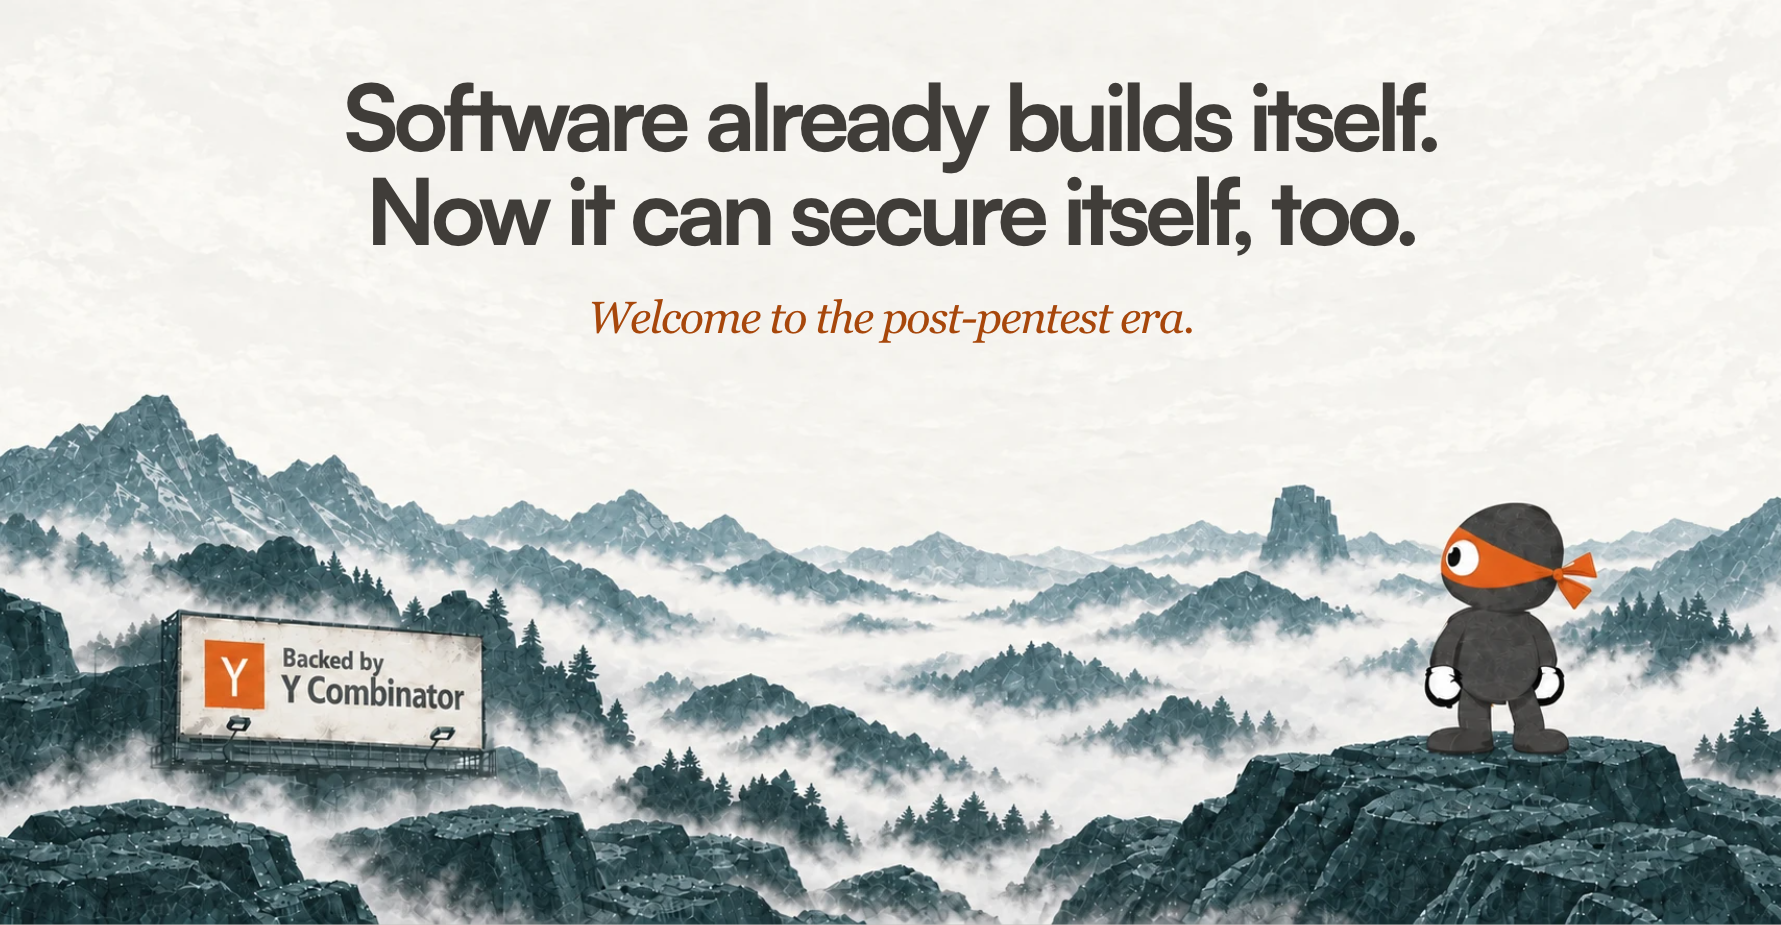
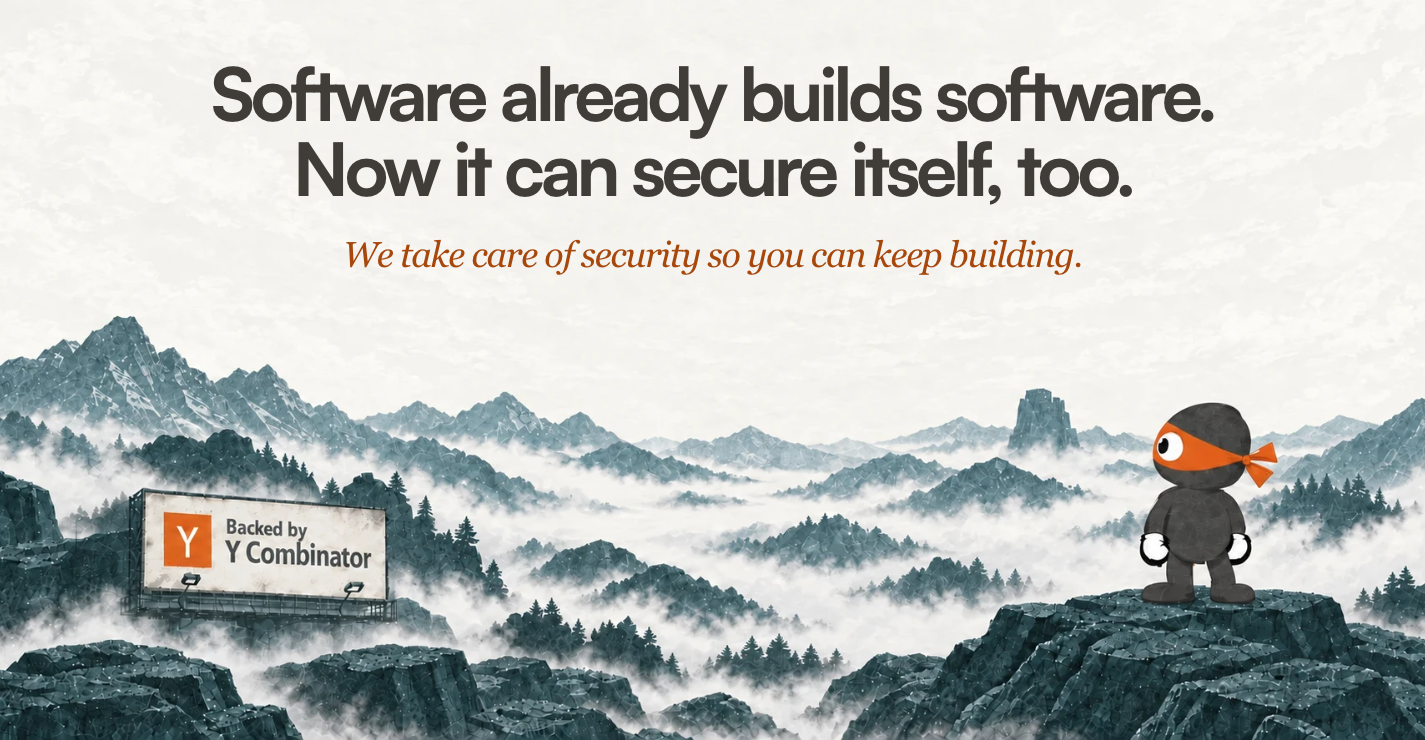
docs(readme): refresh website copy and artwork

diff --git a/README.md b/README.md
@@ -1,6 +1,6 @@
 <p align="center">
   <a href="https://0.security/">
-    <img src="assets/readme-cover.png" alt="Software already builds itself. Now it can secure itself, too. Zero looks over a mountain landscape." width="100%">
+    <img src="assets/readme-cover.png" alt="Software already builds software. Now it can secure itself, too. Zero looks over a mountain landscape." width="100%">
   </a>
 </p>
 
@@ -36,47 +36,113 @@
 ## How it works
 
 <p align="center">
-  <img src="assets/security-cycle-diagram.webp" alt="Illustrative workflow: Zero investigates, proposes fixes and reports the outcome, then repeats." width="100%">
+  <img src="assets/security-cycle-diagram.webp" alt="Illustrative five-step workflow: Zero studies the codebase, finds problems, proposes fixes, reports results and improves the next run." width="100%">
 </p>
 
 An illustrated workflow, not an unattended outcome guarantee:
 
-1. **Find.** Investigate code and authorized targets. Reproduce findings with the checks supported by each workflow.
-2. **Fix.** Propose scoped source fixes and test candidates against an explicit regression command.
-3. **Tell.** Review the findings, evidence and proposed changes.
-4. **Repeat.** Run again as your code changes. Retain revision-aware codebase notes for later research.
+1. **Study.** Read the repository and its conventions. Check retained notes against the current source.
+2. **Find.** Investigate code and authorized targets. Reproduce findings with the checks supported by each workflow.
+3. **Fix.** Propose scoped source fixes and test candidates against an explicit regression command.
+4. **Tell.** Review the findings, evidence and proposed changes.
+5. **Improve.** Retain revision-aware codebase notes for later research. Tool and harness improvement workflows remain a research preview.
 
 The local CLI runs on demand. Managed recurring work needs separate service
 access and configuration. Slack and GitLab delivery are planned.
 
+<p align="center">
+  <a href="https://0.security/research/">
+    <img src="assets/proof-action-scenes.webp" alt="Illustrations of Zero striking a phone, smashing a laptop at his gray desk, and bracing against physical server hardware." width="100%">
+  </a>
+</p>
+
 ## Get started
+
+For a supported macOS or Linux terminal, install the standalone release:
 
 ```bash
 curl -fsSL https://raw.githubusercontent.com/0sec-labs/0sec/main/install.sh | bash
 export PATH="$HOME/.0sec/bin:$PATH"
-0
+0 console --mode standard
 ```
 
-Add the `export` line to your shell profile. Run `0` to open the interactive
-console, or `0 --help` for commands. Only test systems you own or have permission to assess.
-
-Connect your own model or provider credentials. A 0cloud account isn't required
-for local use; model support varies by workflow. See [model connections](https://docs.0.security/api-keys/).
-
-The interactive console defaults to YOLO, without per-action approval prompts.
-Set explicit scope and exclusions before starting work. See
-[configuration](https://docs.0.security/configuration/) for execution and isolation options.
+Add the `export` line to your shell profile. In the console, use `/connect` to
+configure a supported model connection and `/model` to select a model. The
+example selects Standard mode explicitly; plain `0` defaults to YOLO.
+Approval behavior depends on the launcher and mode; see the
+[console guide](https://docs.0.security/console/). No mode grants testing
+authorization or provides OS isolation. Only assess systems you own or have
+permission to test.
 
 Alternatively, with Node.js 24 or newer:
 
 ```bash
 npm install -g 0sec-cli
-0sec --help
+0 --help
 ```
 
-The npm package is `0sec-cli`; its commands are `0sec` and `0`.
-The standalone binary includes the full terminal UI. Running that UI from the
-npm package or source requires Bun; Node supports the command-line workflows.
+The npm package remains `0sec-cli`; it installs `0` and the `0sec` alias.
+The full interactive interface requires Bun or the standalone release;
+Node supports the command-line workflows. See
+[installation](https://docs.0.security/getting-started/) for source builds,
+containers, experimental Windows support, and platform prerequisites.
+
+## Connect your models
+
+The local harness needs no 0cloud account when you use supported provider
+credentials. Configure the provider, model, and runtime deliberately rather
+than relying on whichever credentials happen to be present.
+[API Keys](https://docs.0.security/api-keys/) covers the available connections.
+
+You can assign different models to different agent roles. Child agents
+currently inherit their parent's provider, account, and endpoint: choose
+models supported by that route, such as a multi-model gateway catalog.
+This is not automatic cross-provider account switching or a claim of optimal
+routing. See [role-model configuration](https://docs.0.security/configuration/#multi-model-role-routing).
+
+Hosted inference also leaves tools in your environment. Managed scans and
+recurring reviews require separate service access, repository authorization,
+and compatible deployment. See [managed integration](https://docs.0.security/ci/github-action/#managed-lifecycle-compatibility)
+before automating enrollment or schedule changes.
+
+## Find, verify, and fix
+
+| Task | Entry points |
+| --- | --- |
+| Source and package analysis | `0 review`, `0 file-review`, `0 deep-review`, `0 audit` |
+| Authorized web/API assessment | `0 scan` with an explicit target and scope |
+| Evidence and repair | `0 findings`, `0 verify`, `0 fix`, `0 secure` |
+| AI and agent evaluation | `0 eval`, `0 agent-assure` |
+| Discovery and identity | `0 recon`, `0 identity`, `0 adgraph`, `0 entragraph` |
+| Source, kernel, and binary research | `0 hunt`, `0 research`, `0 kernel`, `0 binary` |
+
+For an authorized local checkout, start with source review:
+
+```bash
+0 review ./my-repo --runtime api --depth quick --cost-ceiling 5
+```
+
+For a repository investigation-and-repair workflow, first review the setup
+requirements and approve a meaningful regression command:
+
+```bash
+0 secure ./my-repo \
+  --test-command "npm test" \
+  --state-dir "$HOME/.0sec/secure/my-repo"
+```
+
+`secure` investigates, attempts reproduction and repair, runs regression
+tests, and independently verifies repairs. Execution is host-local in managed
+checkouts, **not a newly provisioned sandbox**. Publication is opt-in and never
+merges PRs. Inspect individual repairs, blocked findings, and errors: a
+`completed` status is not proof that every finding was fixed. Cost accounting
+and ceiling coverage vary by workflow; provider-side limits remain important.
+See [scan workflows](https://docs.0.security/scan-workflows/) and
+[budget management](https://docs.0.security/budget-management/).
+
+Specialized commands have additional prerequisites. In particular, `0 binary`
+delegates to the optional [0verse engine](0verse/README.md); a basic CLI install
+does not supply every binary-analysis backend or kernel VM artifact.
 
 ## Documentation
 
@@ -86,7 +152,7 @@ npm package or source requires Bun; Node supports the command-line workflows.
 - [Build a Hackstore extension](https://docs.0.security/hackstore/): create a tool, test it locally, and publish it.
 - [Integrations and CI](https://docs.0.security/integrations/) · [Troubleshooting](https://docs.0.security/troubleshooting/).
 
-Docs follow the source checkout; use `0sec --version` and command-specific
+Docs follow the source checkout; use `0 --version` and command-specific
 `--help` when comparing an installed release with newly documented features.
 
 ## Research preview
@@ -97,6 +163,10 @@ See [verification](https://docs.0.security/blind-verification/) for limits and p
 
 Agent learning, source evolution and executable plugins are also research-preview
 workflows. See the [improvement-plane guide](https://docs.0.security/improvement-plane/).
+
+[Benchmarks](https://docs.0.security/benchmark/) distinguish retained aggregate
+results from controlled evaluations. Retained attempts and modes must not be
+presented as a single-shot or independently established black-box result.
 
 ## Contributing
 
